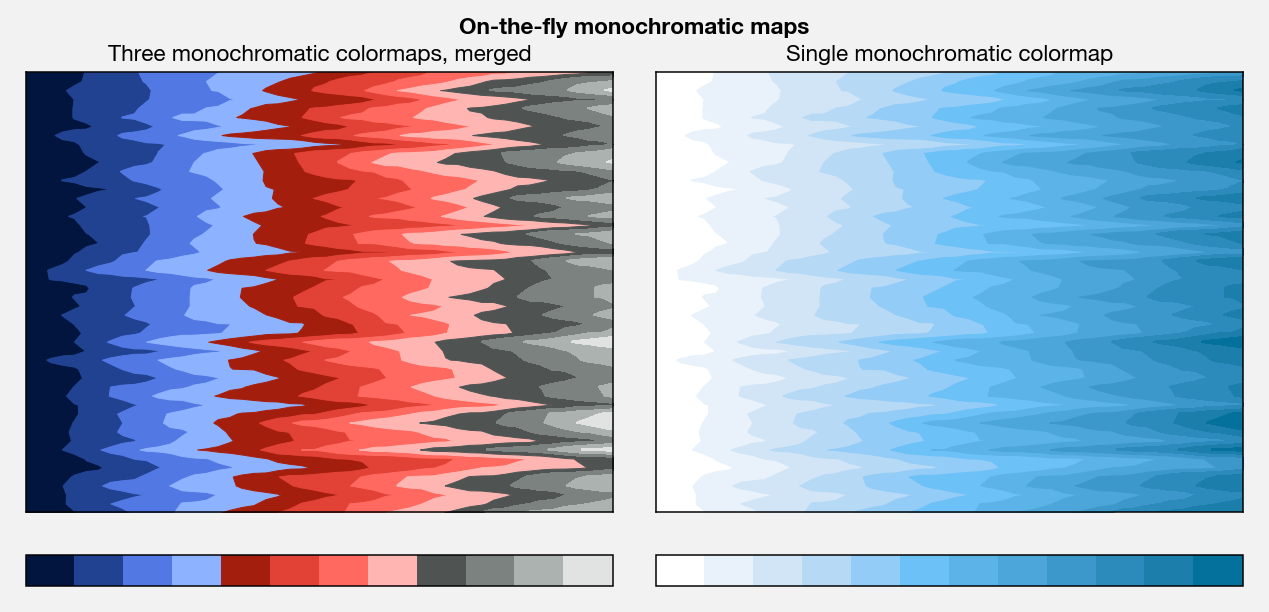
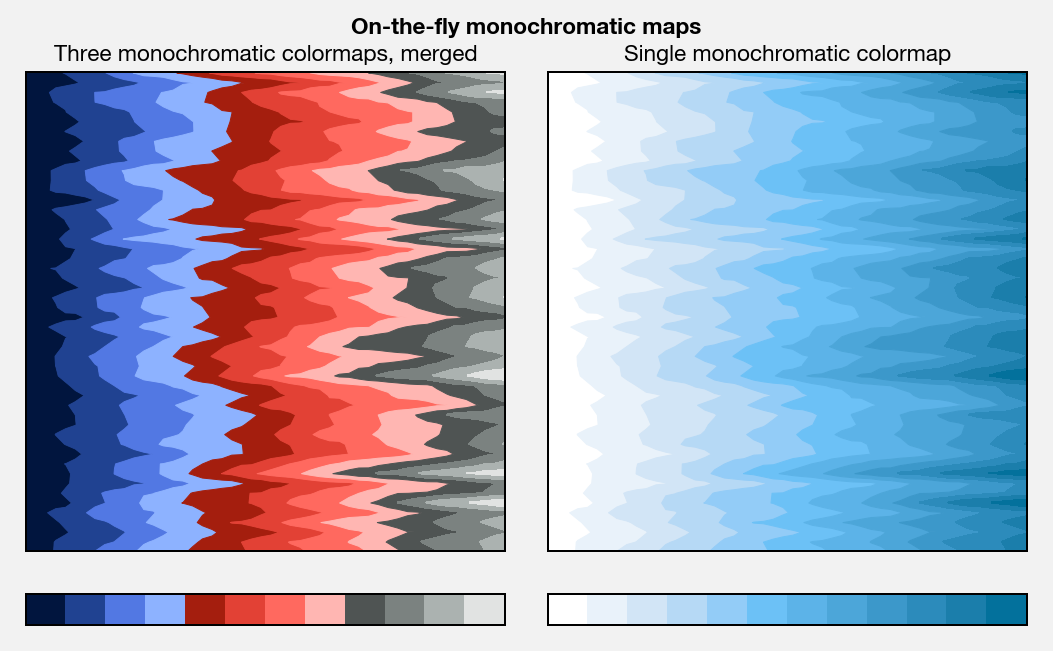
Minor bugfix

diff --git a/proplot/colortools.py b/proplot/colortools.py
@@ -995,7 +995,7 @@ def _merge_cmaps(*imaps, ratios=1, name=None, N=512, **kwargs):
     xw = x0[1:] - x0[:-1] # weights for averages
     # PerceptuallyUniformColormaps checks
     if type_ is PerceptuallyUniformColormap:
-        spaces = {cmap.space for cmap in imaps}
+        spaces = {cmap._space for cmap in imaps}
         if len(spaces)>1:
             raise ValueError(f'Cannot merge colormaps in the different HSL spaces {repr(spaces)}.')
         kwargs['space'] = spaces.pop()

diff --git a/docs/showcase.rst b/docs/showcase.rst
@@ -1724,7 +1724,7 @@ adding a number to the end of the color string.
 
     import proplot as plot
     import numpy as np
-    f, axs = plot.subplots(ncols=2, axwidth=3, aspect=(4,3), bottomcolorbars=True, bottom=0.1)
+    f, axs = plot.subplots(ncols=2, axwidth=2.4, aspect=1, bottomcolorbars=True, bottom=0.1)
     data = np.random.rand(50,50).cumsum(axis=1)
     m = axs[0].contourf(data, cmap=('navy', 'brick red', 'charcoal'), cmap_kw={'reverse':[True]*3})
     f.bottompanel[0].colorbar(m, locator='null')
@@ -1736,8 +1736,8 @@ adding a number to the end of the color string.
 
 
 .. image:: showcase/showcase_114_0.png
-   :width: 634px
-   :height: 306px
+   :width: 526px
+   :height: 325px
 
 
 Diverging colormaps are easy to modify. Just use the ``cut`` argument to
@@ -1749,7 +1749,7 @@ colormap.
 
     import proplot as plot
     import numpy as np
-    f, axs = plot.subplots(ncols=3, innercolorbars='b', axwidth=2.3)
+    f, axs = plot.subplots(ncols=3, innercolorbars='b', axwidth=2)
     data = np.random.rand(50,50).cumsum(axis=0) - 50
     for ax,cut in zip(axs,(0, 0.1, 0.2)):
         m = ax.contourf(data, cmap='PurplePink', cmap_kw={'cut':cut}, levels=12)
@@ -1760,15 +1760,13 @@ colormap.
 
 
 .. image:: showcase/showcase_116_0.png
-   :width: 733px
-   :height: 314px
+   :width: 652px
+   :height: 287px
 
 
-Cyclic colormaps are also easy to modify. Just use the ``shift``
+Cyclic colormaps are also easy to modify. Just pass the ``shift``
 argument to `~proplot.colortools.Colormap` to rotate the colors in
-your map. This will throw an error if the colormap is not recognized as
-cyclic; if you’d like to shift colors for an on-the-fly colormap, make
-sure to use ``cyclic=True`` to designate it so.
+your map.
 
 .. code:: ipython3
 
